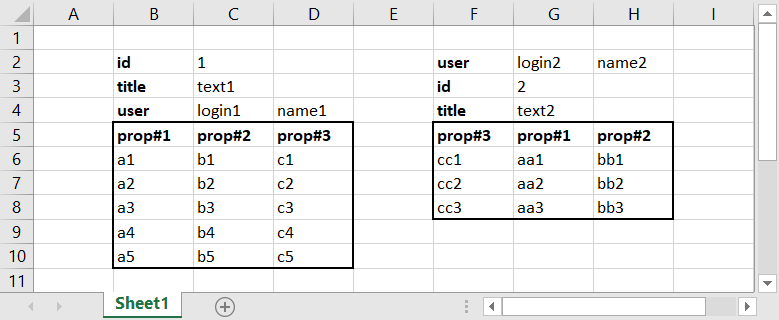
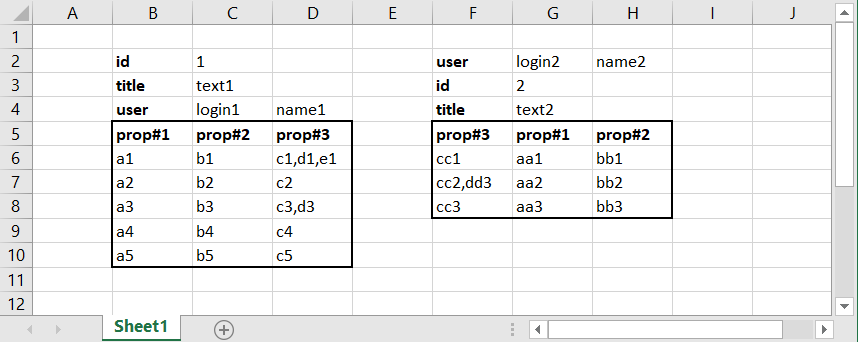
upd

diff --git a/Samples/NestedArray/Program.cs b/Samples/NestedArray/Program.cs
@@ -58,6 +58,7 @@ namespace NestedArray
                             new ExcelConvertMap {
                                 Name = "Prop3",
                                 Col = ctx => FindChildCol(ctx, "prop#3"),
+                                Value = ctx => ctx.Value?.ToString().Split(','),
                             },
                         },
                     },
@@ -69,7 +70,7 @@ namespace NestedArray
                 Console.WriteLine($"{item.Id}\t{item.Title}\t{item.User.Login}\t{item.User.Name}");
 
                 foreach(var child in item.Childs)
-                    Console.WriteLine($"\t{child.Prop1}\t{child.Prop2}\t{child.Prop3}");
+                    Console.WriteLine($"\t{child.Prop1}\t{child.Prop2}\t{string.Join(";",child.Prop3)}");
 
                 Console.WriteLine();
             }

diff --git a/ExcelConverter/ExcelConverter.cs b/ExcelConverter/ExcelConverter.cs
@@ -36,7 +36,7 @@ namespace RandomSolutions
 
         static object _getValue(ExcelPackage excel, ExcelConvertMap map, Type type, ExcelConvertContext parent = null)
         {
-            var isEnumerable = _isEnumerable(type);
+            var isEnumerable = map.Value == null && _isEnumerable(type);
             var itemType = !isEnumerable ? type : _getElementType(type);
             var itemPropInfos = itemType.GetProperties().Where(x => x.CanWrite).ToDictionary(x => x.Name, x => x);
             var count = isEnumerable && map.Break != null ? int.MaxValue : 1;

diff --git a/ExcelConverter/Properties/AssemblyInfo.cs b/ExcelConverter/Properties/AssemblyInfo.cs
@@ -32,5 +32,5 @@ using System.Runtime.InteropServices;
 // You can specify all the values or you can default the Build and Revision Numbers 
 // by using the '*' as shown below:
 // [assembly: AssemblyVersion("1.0.*")]
-[assembly: AssemblyVersion("1.0.0.0")]
-[assembly: AssemblyFileVersion("1.0.0.0")]
+[assembly: AssemblyVersion("1.0.2.0")]
+[assembly: AssemblyFileVersion("1.0.2.0")]

diff --git a/Samples/NestedArray/SampleObject.cs b/Samples/NestedArray/SampleObject.cs
@@ -24,6 +24,6 @@ namespace NestedArray
     {
         public string Prop1 { get; set; }
         public string Prop2 { get; set; }
-        public string Prop3 { get; set; }
+        public string[] Prop3 { get; set; }
     }
 }

diff --git a/Samples/NestedArray/README.md b/Samples/NestedArray/README.md
@@ -21,7 +21,7 @@ public class SampleChild
 {
     public string Prop1 { get; set; }
     public string Prop2 { get; set; }
-    public string Prop3 { get; set; }
+    public string[] Prop3 { get; set; }
 }
 ```
 
@@ -81,6 +81,7 @@ var map = new ExcelConvertMap
                 new ExcelConvertMap {
                     Name = "Prop3",
                     Col = ctx => findChildCol(ctx, "prop#3"),
+					Value = ctx => ctx.Value?.ToString().Split(','),
                 },
             },
         },
